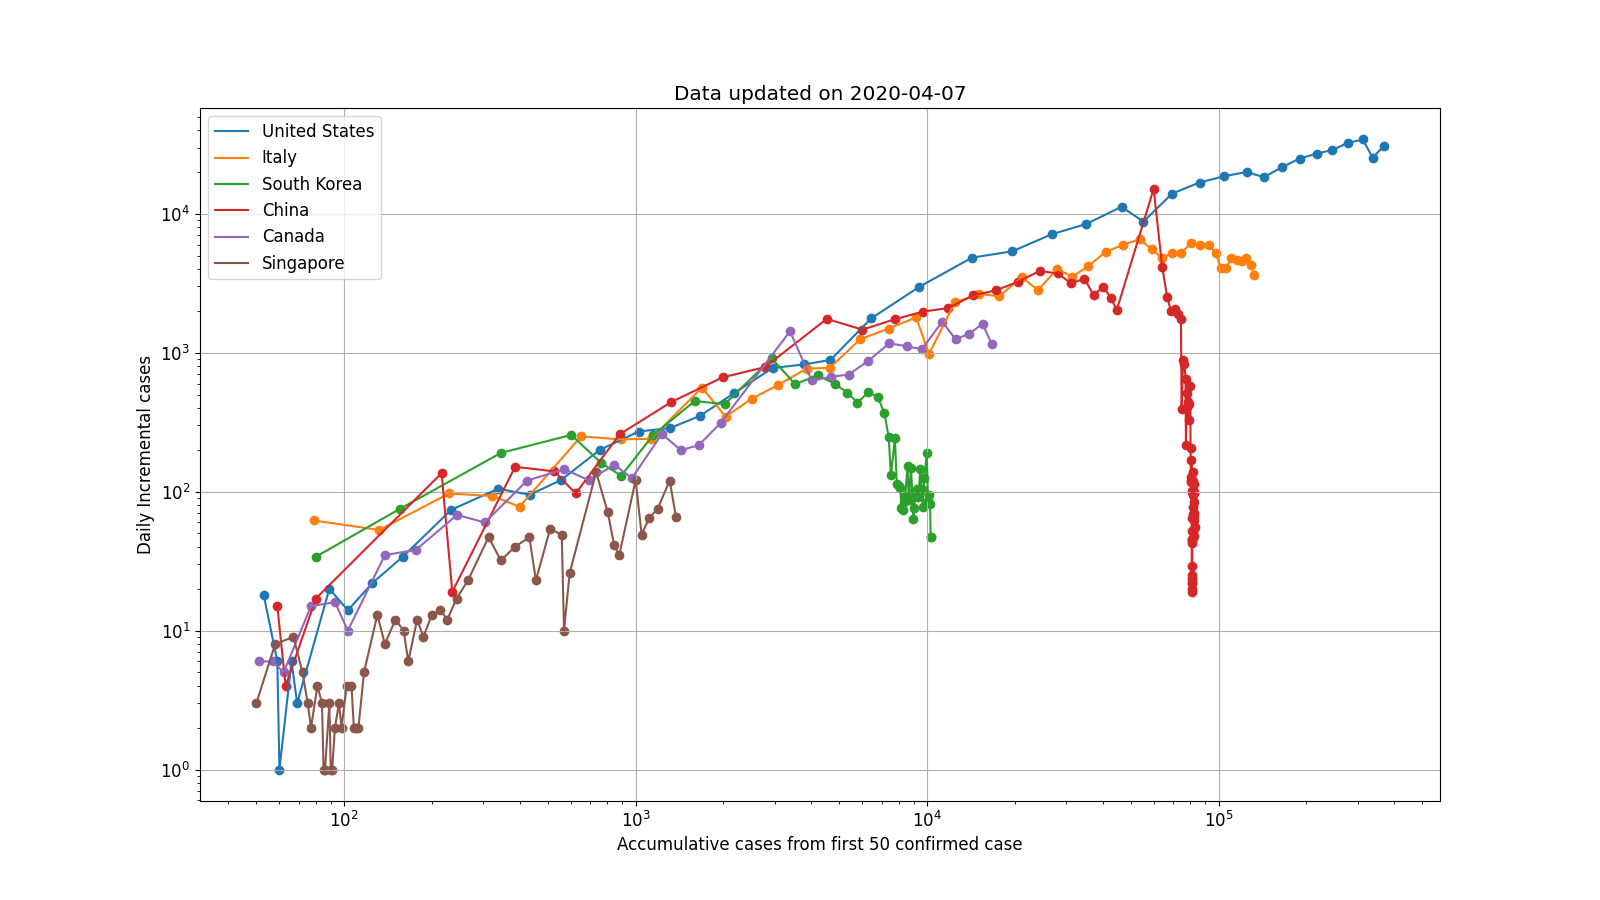
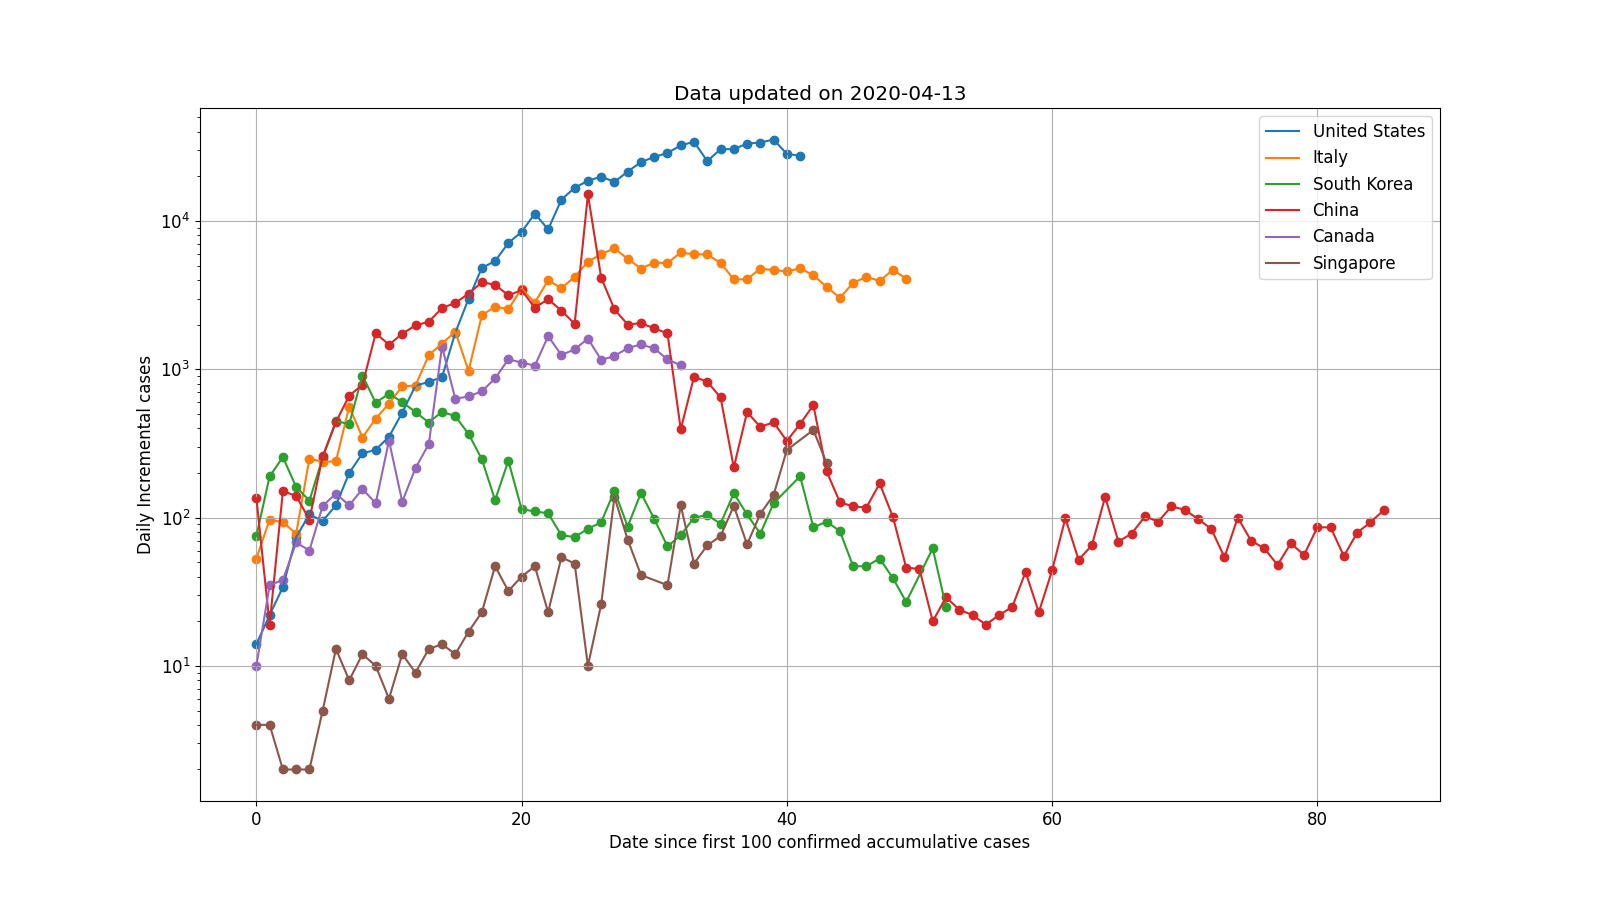
changed to time series based plot

diff --git a/analysis.py b/analysis.py
@@ -121,10 +121,11 @@ class DataModel(object):
                 if y_ < y_threshold:
                     continue
             i += 1
-            x.append(i)
-            y.append(y_)
-            new_y.append(new_y_)
-            date_point.append(date_point_)
+            if new_y_ > 0:
+                x.append(i)
+                y.append(y_)
+                new_y.append(new_y_)
+                date_point.append(date_point_)
 
         if self.statistic_model.fitted:
             x_1 = np.arange(0, len(x) * 1.2, 1)
@@ -178,20 +179,20 @@ class DataModel(object):
             existing_cases = []
             daily_incrementals = []
             for i, y in enumerate(plot_data.new_y):
-                if y != 0:
-                    existing_cases.append(plot_data.existing_y[i])
-                    daily_incrementals.append(y)
-            plt.plot(existing_cases, daily_incrementals,
-                     label=self.target_data.label)
-            plt.scatter(existing_cases, daily_incrementals,
-                        label=None)
-            # plt.plot(existing_cases, daily_incrementals,
-            #          label=self.target_data.label, color=color)
-            # plt.scatter(existing_cases, daily_incrementals,
-            #             label=None, color=color)
 
-            plt.xscale('log')
-            plt.xlabel(f"Accumulative cases from first {str(y_threshold)} confirmed case")
+                existing_cases.append(plot_data.existing_y[i])
+                daily_incrementals.append(y)
+            # plt.plot(existing_cases, daily_incrementals,
+            #          label=self.target_data.label)
+            # plt.scatter(existing_cases, daily_incrementals,
+            #             label=None)
+            plt.plot(plot_data.existing_x, daily_incrementals,
+                     label=self.target_data.label)
+            plt.scatter(plot_data.existing_x, daily_incrementals,
+                        label=None)
+
+            # plt.xscale('log')
+            plt.xlabel(f"Date since first {str(y_threshold)} confirmed accumulative cases")
 
 
     def plot_statistical_model(self):

diff --git a/plots.py b/plots.py
@@ -46,14 +46,14 @@ def country_total_comparison(country_names):
     country_models = []
     for country in country_names:
         country_models.append(get_country_total_model(country))
-    plot_model_lists(country_models, 50, False)
+    plot_model_lists(country_models, 100, False)
 
 
 def country_incremental_comparison(country_names):
     country_models = []
     for country in country_names:
         country_models.append(get_country_total_model(country))
-    plot_model_lists(country_models, 50, False, False)
+    plot_model_lists(country_models, 100, False, False)
 
 
 def file_comparison(city_names):
